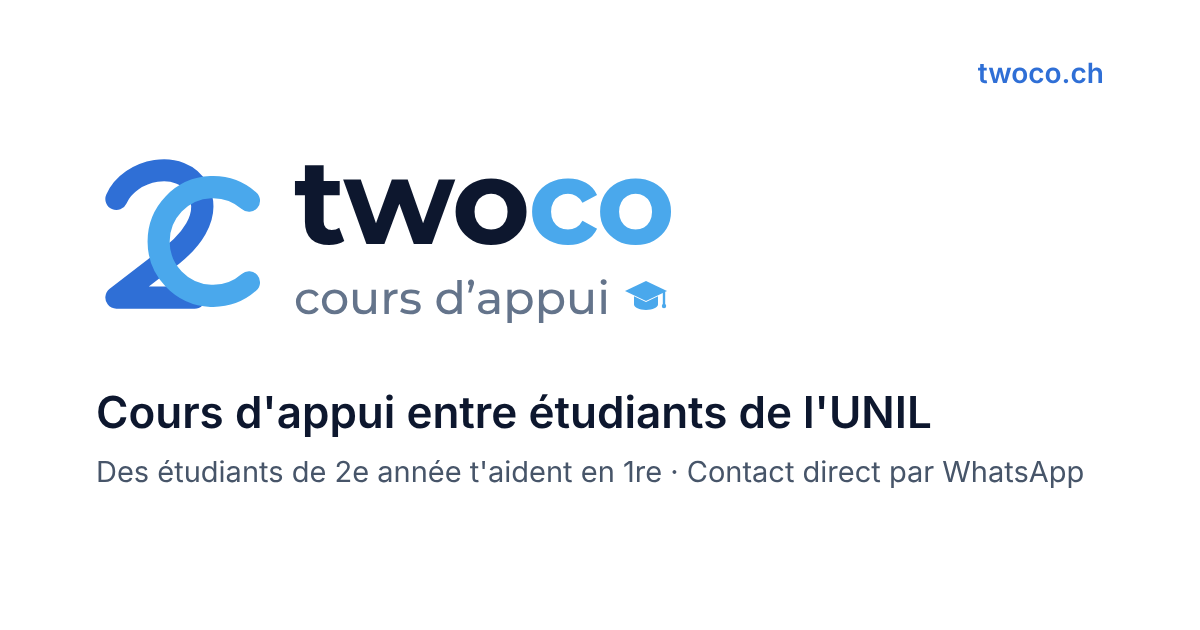
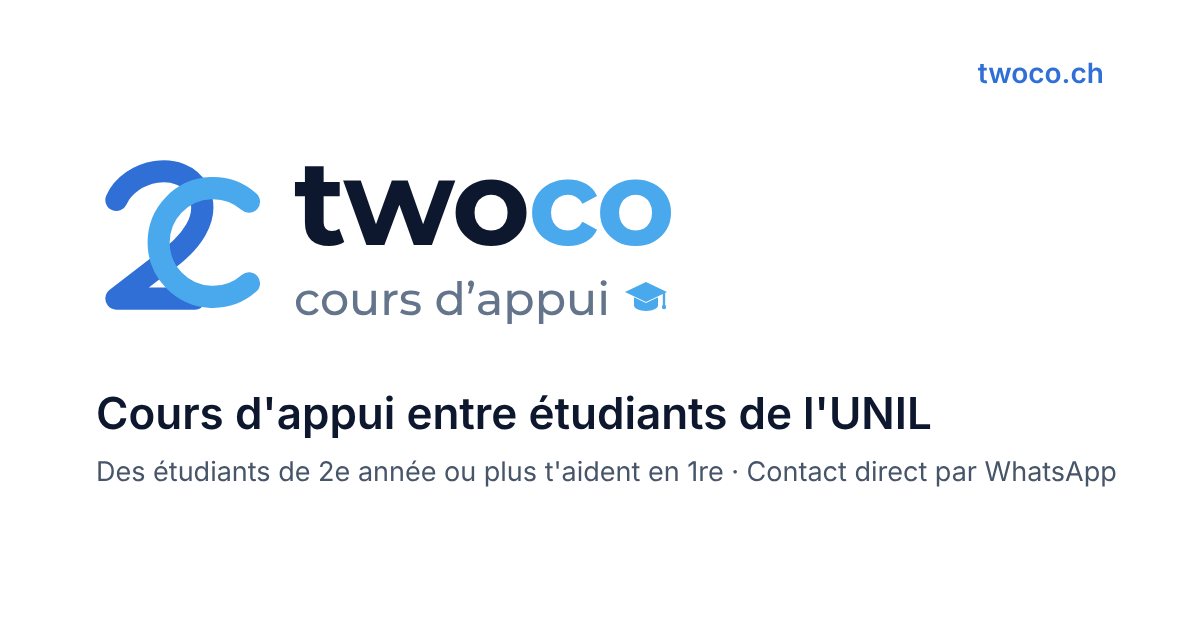
Vérification n°3 : clic WhatsApp décrit exactement, tarif de départ rappelé sur l'accueil, aperçu « 2e année ou plus », « Il manque » complet (faculté, matières, lieux) et corrigé, aide pour modifier son profil
Claude-Session: https://claude.ai/code/session_01EGwHhEAryFHPHuFSPvXo18

diff --git a/inscription.html b/inscription.html
@@ -33,6 +33,8 @@
         .card { max-width: 560px; margin: 40px auto; background: white; padding: 40px; border-radius: 16px; box-shadow: 0 10px 25px rgba(0,0,0,0.05); line-height: 1.5; }
         h1, h2 { margin: 0 0 6px; font-size: 1.6rem; }
         .intro { margin: 0; color: #64748b; }
+        .intro.deja { margin-top: 8px; font-size: 0.85rem; }
+        .intro a { color: var(--blue); }
         /* Chaque partie : titre en petites capitales sur une fine ligne foncée */
         .etape { margin-top: 44px; }
         .etape h2 { margin: 0; padding-bottom: 10px; border-bottom: 1px solid var(--dark); font-size: 0.8rem; font-weight: 700; text-transform: uppercase; letter-spacing: 0.08em; }
@@ -102,6 +104,7 @@
         <form id="formulaire" novalidate>
             <h1>Devenir tuteur</h1>
             <p class="intro">Environ 2 minutes. Ton profil apparaît sur le site après validation par l'équipe Twoco.</p>
+            <p class="intro deja">Déjà inscrit ? Pour modifier ton profil, remplis à nouveau ce formulaire avec le même numéro WhatsApp, puis confirme par e-mail à <a href="mailto:contact.twoco@gmail.com">contact.twoco@gmail.com</a> depuis ton adresse universitaire.</p>
 
             <div class="etape">
                 <h2>Tes informations</h2>
@@ -282,6 +285,7 @@
             const depart = cles.includes(voulueFac) ? voulueFac : (cles.length === 1 ? cles[0] : null);
             if (depart) document.querySelector(`input[name="faculte"][value="${depart}"]`).checked = true;
             afficherAnnees();
+            majBouton(); // la faculté peut être cochée d'office : on met à jour « Il manque »
         })();
 
         // Image de la bande choisie dans l'admin (sinon l'illustration de base)
@@ -325,6 +329,9 @@
             if (!$('prenom').value.trim()) manque.push('prénom');
             if (!$('nom').value.trim()) manque.push('nom');
             if (!emailValide($('email').value.trim().toLowerCase())) manque.push(`e-mail ${CONFIG.EMAIL_DOMAINE}`);
+            if (!document.querySelector('input[name="faculte"]:checked')) manque.push('faculté');
+            if (!document.querySelector('input[name="matiere"]:checked')) manque.push('matières');
+            if (!document.querySelector('input[name="lieu"]:checked')) manque.push('lieux des cours');
             if (!normaliserTel($('whatsapp').value)) manque.push('numéro WhatsApp');
             if (!$('accord').checked) manque.push('la case des CGU');
             if (!$('contribution').checked) manque.push('la case des 5 CHF');

diff --git a/legal.html b/legal.html
@@ -114,7 +114,7 @@
         <p><strong>Données affichées publiquement</strong> sur le site, avec l'accord du tuteur : prénom, nom, numéro WhatsApp (via le bouton de contact), matières, lieux, langues parlées, prix et badges (« Nouveau », « Vérifié », « Fondateur », « Cofondateur »). Le nombre de clics reçus sur le bouton de contact n'est pas affiché ; il sert seulement à l'ordre d'affichage. L'adresse e-mail n'est <strong>jamais</strong> publiée : elle sert uniquement à vérifier que le tuteur indique une adresse universitaire et à confirmer les modifications de profil.</p>
 
         <h3>2.3 Données des élèves</h3>
-        <p>Les élèves n'ont pas besoin de créer de compte. Twoco n'enregistre aucune donnée permettant d'identifier un élève. Lorsqu'un élève clique sur le bouton de contact d'un tuteur, Twoco peut enregistrer quel tuteur a été contacté et quand, afin de suivre les mises en relation. La conversation WhatsApp elle-même se déroule en dehors du site et Twoco n'y a pas accès.</p>
+        <p>Les élèves n'ont pas besoin de créer de compte. Twoco n'enregistre aucune donnée permettant d'identifier un élève. Lorsqu'un élève clique sur le bouton de contact d'un tuteur, Twoco enregistre ce clic (quel tuteur, quand et, le cas échéant, la matière choisie dans le filtre), afin de suivre les mises en relation. La conversation WhatsApp elle-même se déroule en dehors du site et Twoco n'y a pas accès.</p>
 
         <h3>2.4 Statistiques</h3>
         <p>Twoco peut mesurer l'utilisation du site (par exemple les visites des pages, les clics sur les boutons et les filtres utilisés), afin d'améliorer le site, l'ordre d'affichage des tuteurs et le fonctionnement de Twoco. Ces statistiques ne contiennent pas d'adresse IP.</p>

diff --git a/index.html b/index.html
@@ -123,7 +123,7 @@
         <section id="vue-facs" class="facs-grid"><p class="msg">Chargement...</p></section>
         <section id="vue-annees" class="facs-grid" hidden></section>
         <section id="vue-liste" hidden>
-            <p class="avertissement">Twoco facilite le contact. L'organisation et le paiement des cours se gèrent 100 % entre étudiants.</p>
+            <p class="avertissement">Twoco facilite le contact. L'organisation et le paiement des cours se gèrent 100 % entre étudiants. Le tarif affiché est un tarif de départ, à confirmer avec le tuteur sur WhatsApp.</p>
             <div class="outils">
                 <div class="filtres" id="filtres"></div>
                 <div class="droite">
